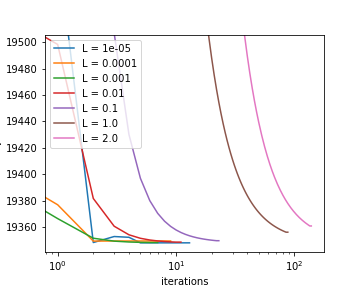
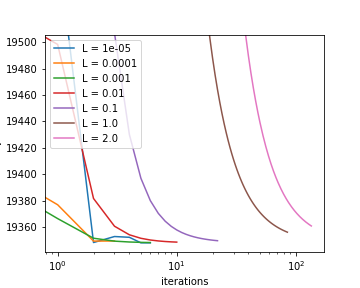
removed unnecessary code from plotting for notebook;

diff --git a/notebook_utils/visualization.py b/notebook_utils/visualization.py
@@ -1,42 +1,31 @@
 from matplotlib import pyplot as plt
 
 
-def plot_Lipschitz_convergence(save_path, energy_list_by_L, yscale_log=False):
+def plot_Lipschitz_convergence(save_path, energy_list_by_L):
     """
     Plot clustering objective by iteration for different Lipschitz constants
 
     :param save_path: path to save the plot in
     :param energy_list_by_L: dict (by Lipschitz value) of listed means and stds of bound update energies like:
         {
-            0.1: {
-                "mean": [100, 90, 70, 50],
-                "std": [10, 7, 5, 2],
-            },
+            0.1: [100, 90, 70, 50]
         }
-    :param yscale_log: sets the y-scale to logarithmic if True
     """
     fig, ax = plt.subplots(1,1,figsize=(5,4))
     for L, lis in energy_list_by_L.items():
-        ax.plot(range(len(lis["mean"])), lis["mean"], label=f"L = {L}")
-        # plt.fill_between(range(len(lis["std"])), lis["mean"]+lis["std"], lis["mean"]-lis["std"], alpha=.5)
+        ax.plot(range(len(lis)), lis, label=f"L = {L}")
     ax.legend()
     ax.set_ylabel("fair objective")
     ax.set_xlabel("iterations")
     suffix = ""
     margin = 0.05
-    if yscale_log:
-        max_val = max([max(lis["mean"][1:]) for lis in energy_list_by_L.values()])
-        min_val = min(energy_list_by_L[0.01]["mean"])
-        y_range = max_val - min_val
-        ax.set_ylim(min_val-y_range*margin, max_val+y_range*margin)
-        ax.set_yscale('log')
-        suffix = "_y-log"
-    else:
-        max_val = max(energy_list_by_L[0.01]["mean"][1:])
-        min_val = energy_list_by_L[0.01]["mean"][-1]
-        y_range = max_val - min_val
-        ax.set_ylim(min_val-y_range*margin, max_val+y_range*margin)
-    x_range = max([len(lis["mean"]) for lis in energy_list_by_L.values()])
+
+    max_val = max(energy_list_by_L[0.01][1:])
+    min_val = energy_list_by_L[0.01][-1]
+    y_range = max_val - min_val
+    ax.set_ylim(min_val-y_range*margin, max_val+y_range*margin)
+
+    x_range = max([len(lis) for lis in energy_list_by_L.values()])
     if x_range > 100:
         ax.set_xscale('log')
     plt.savefig(save_path.format(suffix=suffix))

diff --git a/notebook_utils/fetching_and_printing.py b/notebook_utils/fetching_and_printing.py
@@ -174,20 +174,8 @@ def fetch_and_print_Lipschitz(configs: dict, use_datasets: list, arg_getting_fn:
                 for entry in existing_entries:
                     with open(os.path.join(args.output_path, entry["energy_list_file"]), "r") as f:
                         energy_lists_by_run.append(json.loads(f.read()))
-
-                max_len = max([int(entry["convergence_iter"]) for entry in existing_entries])
-                energy_array_by_run = np.zeros((len(existing_entries), max_len))
-                for i, energy_list in enumerate(energy_lists_by_run):
-                    last_value = energy_list[-1]
-                    for iter in range(len(energy_list), max_len):
-                        energy_list.append(last_value)
-                    energy_array_by_run[i] = energy_list
                     
-                energy_list_by_L[L] = {
-                    # "mean": np.mean(energy_array_by_run, axis=1),
-                    "mean": energy_array_by_run[0],
-                    "std": np.std(energy_array_by_run, axis=1),
-                }
+                energy_list_by_L[L] = energy_lists_by_run[0]
 
                 # Change how optimum is displayed
                 for i, entry in enumerate(existing_entries):
@@ -201,7 +189,6 @@ def fetch_and_print_Lipschitz(configs: dict, use_datasets: list, arg_getting_fn:
                 save_dir = os.path.join(args.output_path, dataset)
                 save_path = os.path.join(save_dir, f"{cluster_option}_"+"Lipschitz_plot{suffix}.png")
                 plot_Lipschitz_convergence(save_path, energy_list_by_L)
-                # plot_Lipschitz_convergence(save_path, energy_list_by_L, yscale_log=True)
 
                 save_path = os.path.join(save_dir, f"{cluster_option}_"+"conv-iter_Lipschitz_plot{suffix}.png")
                 plot_Lipschitz_conv_iter(save_path, conv_iter_by_L)
